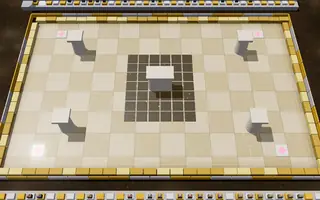
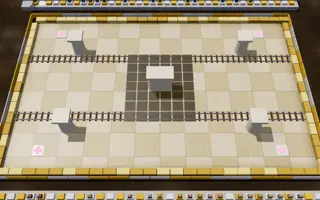
0.46.1: el Alto Mando con las mecánicas nuevas: manos (Agatha), imanes (Karen), arenas movedizas (Bruno), esporas (Dojo Ninja), grietas de lava (Lance) y vagonetas (Campeón)
Antes el Alto Mando solo repetía mecánicas de los gimnasios (oscuridad, terremotos, viento y erupciones, en 3 o 4
salas cada una). La jugada «cerco» de los líderes vale también con las grietas, las manos, las vagonetas y las arenas
movedizas (Bruno la perdía al quedarse sin rocas que caen); Lance cambia «viento» por «acoso». Fotos de Práctica
de las 6 salas rehechas.

diff --git a/public/js/lang/fr.js b/public/js/lang/fr.js
@@ -11,6 +11,10 @@ const CLASSES = {
 
 export default {
   text: {
+    // ---------- Novedades v0.46.1 ----------
+    'Alto Mando renovado': 'Conseil 4 revisité',
+    'El Alto Mando estrena mecánicas: manos que atrapan con Agatha, imanes con Karen, arenas movedizas en vez de rocas con Bruno y esporas en el Dojo Ninja.': 'Le Conseil 4 a de nouvelles mécaniques : des mains qui attrapent chez Agatha, des aimants chez Marion, des sables mouvants au lieu des rochers chez Aldo et des spores au Dojo Ninja.',
+    'Lance cambia las ráfagas por un suelo que se agrieta en lava, y en la Sala del Campeón los terremotos dejan paso a vagonetas: sal de la vía que se ilumina.': 'Peter remplace les rafales par un sol qui se fissure en lave, et dans la Salle du Maître les séismes laissent place aux wagonnets : quitte la voie qui s\'allume.',
     // ---------- Novedades v0.46.0 ----------
     'Más gimnasios con gracia': 'Encore plus d\'arènes vivantes',
     'Más mecánicas: manos que atrapan en la Torre fantasma, imanes que curvan los disparos en el Faro, vagonetas en la Cueva de roca y nubes de esporas en el Invernadero.': 'Plus de mécaniques : des mains qui attrapent dans la Tour spectrale, des aimants qui courbent les tirs au Phare, des wagonnets dans la Grotte et des nuages de spores dans la Serre.',
@@ -1389,21 +1393,21 @@ export default {
     'Cámara Glacial': 'Chambre Glaciale',
     'Alto Mando. Suelo helado, carámbanos que caen del techo y ventiscas que te arrastran.': 'Conseil 4. Sol gelé, stalactites de glace qui tombent du plafond et blizzards qui t\'emportent.',
     'Dojo de Roca': 'Dojo de Roche',
-    'Alto Mando. Terremotos seguidos y rocas que caen del techo.': 'Conseil 4. Séismes à la chaîne et rochers qui tombent du plafond.',
+    'Alto Mando. Terremotos seguidos y arenas movedizas: frenan y, si te quedas quieto en ellas, te hunden.': 'Conseil 4. Séismes à répétition et sables mouvants : ils te ralentissent et, si tu restes immobile dedans, tu t\'enfonces.',
     'Cripta Espectral': 'Crypte Spectrale',
-    'Alto Mando. A oscuras, con teletransportes y charcos tóxicos que se extienden.': 'Conseil 4. Dans le noir, avec des téléporteurs et des flaques toxiques qui s\'étendent.',
+    'Alto Mando. A oscuras, con teletransportes, y salen manos del suelo: si se marca bajo tus pies, apártate o te atrapan.': 'Conseil 4. Dans le noir, avec des téléporteurs, et des mains sortent du sol : si l\'endroit sous tes pieds est marqué, bouge ou elles t\'attrapent.',
     'Guarida del Dragón': 'Repaire du Dragon',
-    'Alto Mando. Un anillo de lava, el aliento de dragón que gira desde el centro, erupciones y ráfagas.': 'Conseil 4. Un anneau de lave, un souffle de dragon qui tourne depuis le centre, des éruptions et des rafales.',
+    'Alto Mando. Un anillo de lava, el aliento de dragón que gira desde el centro, erupciones y un suelo que se agrieta: donde se marca, sale lava un rato.': 'Conseil 4. Un anneau de lave, un souffle de dragon qui tourne depuis le centre, des éruptions et un sol qui se fissure : là où c\'est marqué, la lave jaillit un moment.',
     'Sala del Campeón': 'Salle du Maître',
-    'Campeón. Placas eléctricas en el centro, terremotos y baldosas de curación en las esquinas.': 'Maître. Dalles électriques au centre, séismes et dalles de soin dans les coins.',
+    'Campeón. Placas eléctricas en el centro, vagonetas que cruzan cuando una vía se ilumina y baldosas de curación en las esquinas.': 'Maître. Plaques électriques au centre, wagonnets qui passent quand une voie s\'allume, et dalles de soin dans les coins.',
     'Sala Psíquica': 'Salle Psychique',
     'Alto Mando. Teletransportes y un haz psíquico que gira y aturde.': 'Conseil 4. Des téléporteurs et un faisceau psychique qui tourne et étourdit.',
     'Dojo Ninja': 'Dojo Ninja',
-    'Alto Mando. Penumbra, muros invisibles y charcos tóxicos que se extienden deprisa.': 'Conseil 4. Pénombre, murs invisibles et flaques toxiques qui s\'étendent vite.',
+    'Alto Mando. Penumbra, muros invisibles, charcos tóxicos y nubes de esporas que adormecen a quien las cruza.': 'Conseil 4. Pénombre, murs invisibles, flaques toxiques et nuages de spores qui endorment ceux qui les traversent.',
     'Templo de las Cascadas': 'Temple des Cascades',
     'Alto Mando. Cascadas con mucha corriente y terremotos.': 'Conseil 4. Des cascades au fort courant et des séismes.',
     'Sala de las Sombras': 'Salle des Ombres',
-    'Alto Mando. Oscuridad y emboscadas desde las sombras.': 'Conseil 4. Obscurité et embuscades depuis les ombres.',
+    'Alto Mando. Oscuridad, emboscadas desde las sombras e imanes que curvan los ataques a distancia que pasan cerca.': 'Conseil 4. Obscurité, embuscades depuis les ombres et aimants qui courbent les attaques à distance qui passent près d\'eux.',
     'Cumbre del Dragón': 'Sommet du Dragon',
     'Campeón. Lava, erupciones continuas, vendavales y terremotos.': 'Maître. Lave, éruptions incessantes, bourrasques et séismes.',
     'Su equipo está criado a conciencia: IV perfectos y entrenamiento en todas las estadísticas.': 'Son équipe est élevée avec soin : IV parfaits et entraînement dans toutes les statistiques.',

diff --git a/public/js/lang/ja.js b/public/js/lang/ja.js
@@ -12,6 +12,10 @@ const CLASSES = {
 
 export default {
   text: {
+    // ---------- Novedades v0.46.1 ----------
+    'Alto Mando renovado': '四天王リニューアル',
+    'El Alto Mando estrena mecánicas: manos que atrapan con Agatha, imanes con Karen, arenas movedizas en vez de rocas con Bruno y esporas en el Dojo Ninja.': '四天王に新ギミック：キクコの部屋には捕まえる手、カリンには磁石、シバは岩の代わりに流砂、ニンジャ道場には胞子。',
+    'Lance cambia las ráfagas por un suelo que se agrieta en lava, y en la Sala del Campeón los terremotos dejan paso a vagonetas: sal de la vía que se ilumina.': 'ワタルは突風の代わりに溶岩に割れる地面、チャンピオンの部屋は地震の代わりにトロッコ：光った線路から離れよう。',
     // ---------- Novedades v0.46.0 ----------
     'Más gimnasios con gracia': '個性的なジムがさらに',
     'Más mecánicas: manos que atrapan en la Torre fantasma, imanes que curvan los disparos en el Faro, vagonetas en la Cueva de roca y nubes de esporas en el Invernadero.': 'ギミック追加：ゴーストの塔で捕まえる手、灯台で攻撃を曲げる磁石、岩の洞窟のトロッコ、温室の胞子の雲。',
@@ -1398,21 +1402,21 @@ export default {
     'Cámara Glacial': '氷の 間',
     'Alto Mando. Suelo helado, carámbanos que caen del techo y ventiscas que te arrastran.': '四天王。凍った 床、天井から 落ちる つらら、押し流す 吹雪。',
     'Dojo de Roca': '岩の 道場',
-    'Alto Mando. Terremotos seguidos y rocas que caen del techo.': '四天王。つづけざまの じしんと、天井から 落ちる 岩。',
+    'Alto Mando. Terremotos seguidos y arenas movedizas: frenan y, si te quedas quieto en ellas, te hunden.': '四天王。立て続けの地震と流砂：動きが遅くなり、中で止まっていると沈む。',
     'Cripta Espectral': 'ゴーストの 墓所',
-    'Alto Mando. A oscuras, con teletransportes y charcos tóxicos que se extienden.': '四天王。くらやみの中、ワープパネルと 広がる 毒の 水たまり。',
+    'Alto Mando. A oscuras, con teletransportes, y salen manos del suelo: si se marca bajo tus pies, apártate o te atrapan.': '四天王。くらやみの中、ワープパネルがあり、地面から手が出てくる：足元にマークが出たら動こう、さもないと捕まる。',
     'Guarida del Dragón': 'ドラゴンの すみか',
-    'Alto Mando. Un anillo de lava, el aliento de dragón que gira desde el centro, erupciones y ráfagas.': '四天王。溶岩の 輪、中央から 回る ドラゴンの 息、噴火と 突風。',
+    'Alto Mando. Un anillo de lava, el aliento de dragón que gira desde el centro, erupciones y un suelo que se agrieta: donde se marca, sale lava un rato.': '四天王。溶岩の輪、中央から回るドラゴンの息、噴火、そしてひび割れる地面：マークの場所からしばらく溶岩が噴き出す。',
     'Sala del Campeón': 'チャンピオンの 間',
-    'Campeón. Placas eléctricas en el centro, terremotos y baldosas de curación en las esquinas.': 'チャンピオン。中央に 電気パネル、じしん、四すみに 回復パネル。',
+    'Campeón. Placas eléctricas en el centro, vagonetas que cruzan cuando una vía se ilumina y baldosas de curación en las esquinas.': 'チャンピオン。中央に電気パネル、線路が光ると通るトロッコ、四隅に回復パネル。',
     'Sala Psíquica': 'エスパーの 間',
     'Alto Mando. Teletransportes y un haz psíquico que gira y aturde.': '四天王。ワープパネルと、回って スタンさせる サイコビーム。',
     'Dojo Ninja': '忍者 道場',
-    'Alto Mando. Penumbra, muros invisibles y charcos tóxicos que se extienden deprisa.': '四天王。うす暗がり、見えない壁、すぐ 広がる 毒の 水たまり。',
+    'Alto Mando. Penumbra, muros invisibles, charcos tóxicos y nubes de esporas que adormecen a quien las cruza.': '四天王。うす暗がり、見えない壁、毒の水たまり、そして通ると眠くなる胞子の雲。',
     'Templo de las Cascadas': '滝の 神殿',
     'Alto Mando. Cascadas con mucha corriente y terremotos.': '四天王。流れの 強い 滝と じしん。',
     'Sala de las Sombras': '影の 間',
-    'Alto Mando. Oscuridad y emboscadas desde las sombras.': '四天王。くらやみと、影からの 不意打ち。',
+    'Alto Mando. Oscuridad, emboscadas desde las sombras e imanes que curvan los ataques a distancia que pasan cerca.': '四天王。くらやみと 影からの 奇襲、そして近くを通る遠距離攻撃を曲げる磁石。',
     'Cumbre del Dragón': 'ドラゴンの 頂',
     'Campeón. Lava, erupciones continuas, vendavales y terremotos.': 'チャンピオン。溶岩、止まらない 噴火、暴風、じしん。',
     'Su equipo está criado a conciencia: IV perfectos y entrenamiento en todas las estadísticas.': '手持ちは しっかり 育てられている：個体値 最高、全能力に 努力値。',

diff --git a/public/js/lang/it.js b/public/js/lang/it.js
@@ -12,6 +12,10 @@ const CLASSES = {
 
 export default {
   text: {
+    // ---------- Novedades v0.46.1 ----------
+    'Alto Mando renovado': 'Superquattro rinnovati',
+    'El Alto Mando estrena mecánicas: manos que atrapan con Agatha, imanes con Karen, arenas movedizas en vez de rocas con Bruno y esporas en el Dojo Ninja.': 'I Superquattro hanno nuove meccaniche: mani che afferrano con Agatha, magneti con Karen, sabbie mobili al posto delle rocce con Bruno e spore nel Dojo Ninja.',
+    'Lance cambia las ráfagas por un suelo que se agrieta en lava, y en la Sala del Campeón los terremotos dejan paso a vagonetas: sal de la vía que se ilumina.': 'Lance sostituisce le raffiche con un suolo che si crepa in lava, e nella Sala del Campione i terremoti lasciano il posto ai carrelli: esci dal binario che si illumina.',
     // ---------- Novedades v0.46.0 ----------
     'Más gimnasios con gracia': 'Altre palestre con carattere',
     'Más mecánicas: manos que atrapan en la Torre fantasma, imanes que curvan los disparos en el Faro, vagonetas en la Cueva de roca y nubes de esporas en el Invernadero.': 'Altre meccaniche: mani che afferrano nella Torre spettrale, magneti che curvano i colpi al Faro, carrelli nella Grotta di roccia e nuvole di spore nella Serra.',
@@ -1398,21 +1402,21 @@ export default {
     'Cámara Glacial': 'Camera Glaciale',
     'Alto Mando. Suelo helado, carámbanos que caen del techo y ventiscas que te arrastran.': 'Superquattro. Pavimento ghiacciato, ghiaccioli che cadono dal soffitto e bufere che ti trascinano.',
     'Dojo de Roca': 'Dojo di Roccia',
-    'Alto Mando. Terremotos seguidos y rocas que caen del techo.': 'Superquattro. Terremoti a ripetizione e rocce che cadono dal soffitto.',
+    'Alto Mando. Terremotos seguidos y arenas movedizas: frenan y, si te quedas quieto en ellas, te hunden.': 'Superquattro. Terremoti a raffica e sabbie mobili: rallentano e, se resti fermo dentro, sprofondi.',
     'Cripta Espectral': 'Cripta Spettrale',
-    'Alto Mando. A oscuras, con teletransportes y charcos tóxicos que se extienden.': 'Superquattro. Al buio, con teletrasporti e pozze tossiche che si allargano.',
+    'Alto Mando. A oscuras, con teletransportes, y salen manos del suelo: si se marca bajo tus pies, apártate o te atrapan.': 'Superquattro. Al buio, con teletrasporti, e dal terreno escono delle mani: se il punto sotto i tuoi piedi viene segnato, spostati o ti afferrano.',
     'Guarida del Dragón': 'Rifugio del Drago',
-    'Alto Mando. Un anillo de lava, el aliento de dragón que gira desde el centro, erupciones y ráfagas.': 'Superquattro. Un anello di lava, il soffio del drago che gira dal centro, eruzioni e raffiche.',
+    'Alto Mando. Un anillo de lava, el aliento de dragón que gira desde el centro, erupciones y un suelo que se agrieta: donde se marca, sale lava un rato.': 'Superquattro. Un anello di lava, il soffio del drago che ruota dal centro, eruzioni e un suolo che si crepa: dove viene segnato, esce lava per un po\'.',
     'Sala del Campeón': 'Sala del Campione',
-    'Campeón. Placas eléctricas en el centro, terremotos y baldosas de curación en las esquinas.': 'Campione. Piastre elettriche al centro, terremoti e piastrelle curative negli angoli.',
+    'Campeón. Placas eléctricas en el centro, vagonetas que cruzan cuando una vía se ilumina y baldosas de curación en las esquinas.': 'Campione. Piastre elettriche al centro, carrelli che passano quando un binario si illumina e caselle curative negli angoli.',
     'Sala Psíquica': 'Sala Psichica',
     'Alto Mando. Teletransportes y un haz psíquico que gira y aturde.': 'Superquattro. Teletrasporti e un fascio psichico che gira e stordisce.',
     'Dojo Ninja': 'Dojo Ninja',
-    'Alto Mando. Penumbra, muros invisibles y charcos tóxicos que se extienden deprisa.': 'Superquattro. Penombra, muri invisibili e pozze tossiche che si allargano in fretta.',
+    'Alto Mando. Penumbra, muros invisibles, charcos tóxicos y nubes de esporas que adormecen a quien las cruza.': 'Superquattro. Penombra, muri invisibili, pozze tossiche e nuvole di spore che intorpidiscono chi le attraversa.',
     'Templo de las Cascadas': 'Tempio delle Cascate',
     'Alto Mando. Cascadas con mucha corriente y terremotos.': 'Superquattro. Cascate con forte corrente e terremoti.',
     'Sala de las Sombras': 'Sala delle Ombre',
-    'Alto Mando. Oscuridad y emboscadas desde las sombras.': 'Superquattro. Oscurità e imboscate dalle ombre.',
+    'Alto Mando. Oscuridad, emboscadas desde las sombras e imanes que curvan los ataques a distancia que pasan cerca.': 'Superquattro. Oscurità, imboscate dalle ombre e magneti che curvano gli attacchi a distanza che passano vicino.',
     'Cumbre del Dragón': 'Vetta del Drago',
     'Campeón. Lava, erupciones continuas, vendavales y terremotos.': 'Campione. Lava, eruzioni continue, bufere e terremoti.',
     'Su equipo está criado a conciencia: IV perfectos y entrenamiento en todas las estadísticas.': 'La sua squadra è allevata con cura: VI perfetti e allenamento in tutte le statistiche.',

diff --git a/public/js/lang/de.js b/public/js/lang/de.js
@@ -11,6 +11,10 @@ const CLASSES = {
 
 export default {
   text: {
+    // ---------- Novedades v0.46.1 ----------
+    'Alto Mando renovado': 'Top Vier überarbeitet',
+    'El Alto Mando estrena mecánicas: manos que atrapan con Agatha, imanes con Karen, arenas movedizas en vez de rocas con Bruno y esporas en el Dojo Ninja.': 'Die Top Vier haben neue Mechaniken: packende Hände bei Agathe, Magnete bei Melanie, Treibsand statt Felsen bei Bruno und Sporen im Ninja-Dojo.',
+    'Lance cambia las ráfagas por un suelo que se agrieta en lava, y en la Sala del Campeón los terremotos dejan paso a vagonetas: sal de la vía que se ilumina.': 'Siegfried tauscht die Böen gegen einen Boden, der zu Lava aufreißt, und im Saal des Champs weichen die Erdbeben Loren: Runter vom Gleis, das aufleuchtet.',
     // ---------- Novedades v0.46.0 ----------
     'Más gimnasios con gracia': 'Noch mehr Arenen mit Pfiff',
     'Más mecánicas: manos que atrapan en la Torre fantasma, imanes que curvan los disparos en el Faro, vagonetas en la Cueva de roca y nubes de esporas en el Invernadero.': 'Mehr Mechaniken: greifende Hände im Geisterturm, Magnete, die Schüsse am Leuchtturm ablenken, Loren in der Felshöhle und Sporenwolken im Gewächshaus.',
@@ -1397,21 +1401,21 @@ export default {
     'Cámara Glacial': 'Gletscherkammer',
     'Alto Mando. Suelo helado, carámbanos que caen del techo y ventiscas que te arrastran.': 'Top Vier. Vereister Boden, Eiszapfen, die von der Decke fallen, und Schneestürme, die dich mitreißen.',
     'Dojo de Roca': 'Felsen-Dojo',
-    'Alto Mando. Terremotos seguidos y rocas que caen del techo.': 'Top Vier. Erdbeben am laufenden Band und Felsen, die von der Decke fallen.',
+    'Alto Mando. Terremotos seguidos y arenas movedizas: frenan y, si te quedas quieto en ellas, te hunden.': 'Top Vier. Erdbeben am laufenden Band und Treibsand: Er bremst dich, und wenn du darin stehen bleibst, versinkst du.',
     'Cripta Espectral': 'Geistergruft',
-    'Alto Mando. A oscuras, con teletransportes y charcos tóxicos que se extienden.': 'Top Vier. Im Dunkeln, mit Teleportern und sich ausbreitenden Giftpfützen.',
+    'Alto Mando. A oscuras, con teletransportes, y salen manos del suelo: si se marca bajo tus pies, apártate o te atrapan.': 'Top Vier. Im Dunkeln, mit Teleportern, und aus dem Boden kommen Hände: Wird die Stelle unter dir markiert, geh weg, sonst packen sie dich.',
     'Guarida del Dragón': 'Drachenhort',
-    'Alto Mando. Un anillo de lava, el aliento de dragón que gira desde el centro, erupciones y ráfagas.': 'Top Vier. Ein Lavaring, Drachenatem, der sich von der Mitte aus dreht, Ausbrüche und Windstöße.',
+    'Alto Mando. Un anillo de lava, el aliento de dragón que gira desde el centro, erupciones y un suelo que se agrieta: donde se marca, sale lava un rato.': 'Top Vier. Ein Lavaring, Drachenatem, der sich von der Mitte aus dreht, Ausbrüche und ein Boden, der aufreißt: Wo er markiert wird, tritt eine Weile Lava aus.',
     'Sala del Campeón': 'Halle des Champs',
-    'Campeón. Placas eléctricas en el centro, terremotos y baldosas de curación en las esquinas.': 'Champ. Elektroplatten in der Mitte, Erdbeben und Heilplatten in den Ecken.',
+    'Campeón. Placas eléctricas en el centro, vagonetas que cruzan cuando una vía se ilumina y baldosas de curación en las esquinas.': 'Champion. Elektroplatten in der Mitte, Loren, die fahren, wenn ein Gleis aufleuchtet, und Heilfelder in den Ecken.',
     'Sala Psíquica': 'Psycho-Halle',
     'Alto Mando. Teletransportes y un haz psíquico que gira y aturde.': 'Top Vier. Teleporter und ein kreisender Psycho-Strahl, der betäubt.',
     'Dojo Ninja': 'Ninja-Dojo',
-    'Alto Mando. Penumbra, muros invisibles y charcos tóxicos que se extienden deprisa.': 'Top Vier. Halbdunkel, unsichtbare Wände und Giftpfützen, die sich schnell ausbreiten.',
+    'Alto Mando. Penumbra, muros invisibles, charcos tóxicos y nubes de esporas que adormecen a quien las cruza.': 'Top Vier. Halbdunkel, unsichtbare Wände, Giftpfützen und Sporenwolken, die jeden schläfrig machen, der sie durchquert.',
     'Templo de las Cascadas': 'Wasserfalltempel',
     'Alto Mando. Cascadas con mucha corriente y terremotos.': 'Top Vier. Wasserfälle mit starker Strömung und Erdbeben.',
     'Sala de las Sombras': 'Halle der Schatten',
-    'Alto Mando. Oscuridad y emboscadas desde las sombras.': 'Top Vier. Dunkelheit und Hinterhalte aus den Schatten.',
+    'Alto Mando. Oscuridad, emboscadas desde las sombras e imanes que curvan los ataques a distancia que pasan cerca.': 'Top Vier. Dunkelheit, Hinterhalte aus den Schatten und Magnete, die Fernangriffe in ihrer Nähe ablenken.',
     'Cumbre del Dragón': 'Drachengipfel',
     'Campeón. Lava, erupciones continuas, vendavales y terremotos.': 'Champ. Lava, ständige Ausbrüche, Stürme und Erdbeben.',
     'Su equipo está criado a conciencia: IV perfectos y entrenamiento en todas las estadísticas.': 'Sein Team ist sorgfältig gezüchtet: perfekte DVs und Training in allen Werten.',

diff --git a/public/js/lang/ko.js b/public/js/lang/ko.js
@@ -12,6 +12,10 @@ const CLASSES = {
 
 export default {
   text: {
+    // ---------- Novedades v0.46.1 ----------
+    'Alto Mando renovado': '사천왕 리뉴얼',
+    'El Alto Mando estrena mecánicas: manos que atrapan con Agatha, imanes con Karen, arenas movedizas en vez de rocas con Bruno y esporas en el Dojo Ninja.': '사천왕에 새 기믹: 국화에게는 붙잡는 손, 카렌에게는 자석, 시바는 바위 대신 모래늪, 닌자 도장에는 포자.',
+    'Lance cambia las ráfagas por un suelo que se agrieta en lava, y en la Sala del Campeón los terremotos dejan paso a vagonetas: sal de la vía que se ilumina.': '목호는 돌풍 대신 용암으로 갈라지는 바닥, 챔피언의 방은 지진 대신 광차: 빛나는 선로에서 벗어나.',
     // ---------- Novedades v0.46.0 ----------
     'Más gimnasios con gracia': '더 많은 개성 있는 체육관',
     'Más mecánicas: manos que atrapan en la Torre fantasma, imanes que curvan los disparos en el Faro, vagonetas en la Cueva de roca y nubes de esporas en el Invernadero.': '기믹 추가: 고스트 탑의 붙잡는 손, 등대의 공격을 휘게 하는 자석, 바위 동굴의 광차, 온실의 포자 구름.',
@@ -1398,21 +1402,21 @@ export default {
     'Cámara Glacial': '얼음의 방',
     'Alto Mando. Suelo helado, carámbanos que caen del techo y ventiscas que te arrastran.': '사천왕. 얼어붙은 바닥, 천장에서 떨어지는 고드름, 밀어내는 눈보라.',
     'Dojo de Roca': '바위 도장',
-    'Alto Mando. Terremotos seguidos y rocas que caen del techo.': '사천왕. 연이은 지진과 천장에서 떨어지는 바위.',
+    'Alto Mando. Terremotos seguidos y arenas movedizas: frenan y, si te quedas quieto en ellas, te hunden.': '사천왕. 연이은 지진과 모래늪: 느려지고, 안에서 가만히 있으면 가라앉는다.',
     'Cripta Espectral': '유령의 묘실',
-    'Alto Mando. A oscuras, con teletransportes y charcos tóxicos que se extienden.': '사천왕. 어둠 속에서 순간이동 타일과 번지는 독 웅덩이.',
+    'Alto Mando. A oscuras, con teletransportes, y salen manos del suelo: si se marca bajo tus pies, apártate o te atrapan.': '사천왕. 어둠 속에 순간이동 타일이 있고, 땅에서 손이 나온다: 발밑에 표시가 뜨면 피하지 않으면 붙잡힌다.',
     'Guarida del Dragón': '드래곤의 소굴',
-    'Alto Mando. Un anillo de lava, el aliento de dragón que gira desde el centro, erupciones y ráfagas.': '사천왕. 용암 고리, 중앙에서 도는 드래곤의 숨결, 분화와 돌풍.',
+    'Alto Mando. Un anillo de lava, el aliento de dragón que gira desde el centro, erupciones y un suelo que se agrieta: donde se marca, sale lava un rato.': '사천왕. 용암 고리, 중앙에서 회전하는 드래곤의 숨결, 분화, 그리고 갈라지는 바닥: 표시된 곳에서 잠시 용암이 솟는다.',
     'Sala del Campeón': '챔피언의 방',
-    'Campeón. Placas eléctricas en el centro, terremotos y baldosas de curación en las esquinas.': '챔피언. 가운데 전기 패널, 지진, 네 모서리의 회복 타일.',
+    'Campeón. Placas eléctricas en el centro, vagonetas que cruzan cuando una vía se ilumina y baldosas de curación en las esquinas.': '챔피언. 중앙의 전기 발판, 선로가 빛나면 지나가는 광차, 그리고 구석의 회복 타일.',
     'Sala Psíquica': '에스퍼의 방',
     'Alto Mando. Teletransportes y un haz psíquico que gira y aturde.': '사천왕. 순간이동 타일과 빙글빙글 돌며 기절시키는 사이코 빔.',
     'Dojo Ninja': '닌자 도장',
-    'Alto Mando. Penumbra, muros invisibles y charcos tóxicos que se extienden deprisa.': '사천왕. 어스름, 보이지 않는 벽, 빠르게 번지는 독 웅덩이.',
+    'Alto Mando. Penumbra, muros invisibles, charcos tóxicos y nubes de esporas que adormecen a quien las cruza.': '사천왕. 어스름, 보이지 않는 벽, 독 웅덩이, 그리고 지나가면 졸리게 하는 포자 구름.',
     'Templo de las Cascadas': '폭포의 신전',
     'Alto Mando. Cascadas con mucha corriente y terremotos.': '사천왕. 물살이 센 폭포와 지진.',
     'Sala de las Sombras': '그림자의 방',
-    'Alto Mando. Oscuridad y emboscadas desde las sombras.': '사천왕. 어둠과 그림자 속의 기습.',
+    'Alto Mando. Oscuridad, emboscadas desde las sombras e imanes que curvan los ataques a distancia que pasan cerca.': '사천왕. 어둠과 그림자 속 기습, 그리고 근처를 지나는 원거리 공격을 휘게 하는 자석.',
     'Cumbre del Dragón': '드래곤의 정상',
     'Campeón. Lava, erupciones continuas, vendavales y terremotos.': '챔피언. 용암, 끊이지 않는 분화, 폭풍, 지진.',
     'Su equipo está criado a conciencia: IV perfectos y entrenamiento en todas las estadísticas.': '꼼꼼하게 키운 포켓몬: 개체값 최고, 모든 능력치에 노력치.',

diff --git a/public/js/lang/en.js b/public/js/lang/en.js
@@ -11,6 +11,10 @@ const CLASSES = {
 
 export default {
   text: {
+    // ---------- Novedades v0.46.1 ----------
+    'Alto Mando renovado': 'Elite Four revamped',
+    'El Alto Mando estrena mecánicas: manos que atrapan con Agatha, imanes con Karen, arenas movedizas en vez de rocas con Bruno y esporas en el Dojo Ninja.': 'The Elite Four get new mechanics: grabbing hands with Agatha, magnets with Karen, quicksand instead of rocks with Bruno, and spores in the Ninja Dojo.',
+    'Lance cambia las ráfagas por un suelo que se agrieta en lava, y en la Sala del Campeón los terremotos dejan paso a vagonetas: sal de la vía que se ilumina.': 'Lance swaps the gusts for a floor that cracks into lava, and in the Champion\'s Room the earthquakes make way for mine carts: get off the track that lights up.',
     // ---------- Novedades v0.46.0 ----------
     'Más gimnasios con gracia': 'More gyms with flair',
     'Más mecánicas: manos que atrapan en la Torre fantasma, imanes que curvan los disparos en el Faro, vagonetas en la Cueva de roca y nubes de esporas en el Invernadero.': 'More mechanics: grabbing hands in the ghost Tower, magnets that bend shots at the Lighthouse, mine carts in the rock Cave and spore clouds in the Greenhouse.',
@@ -1233,21 +1237,21 @@ export default {
     'Cámara Glacial': 'Glacial Chamber',
     'Alto Mando. Suelo helado, carámbanos que caen del techo y ventiscas que te arrastran.': 'Elite Four. Icy floor, icicles falling from the ceiling and blizzards that drag you along.',
     'Dojo de Roca': 'Rock Dojo',
-    'Alto Mando. Terremotos seguidos y rocas que caen del techo.': 'Elite Four. Back-to-back earthquakes and rocks falling from the ceiling.',
+    'Alto Mando. Terremotos seguidos y arenas movedizas: frenan y, si te quedas quieto en ellas, te hunden.': 'Elite Four. Back-to-back earthquakes and quicksand: it slows you down, and if you stand still in it, you sink.',
     'Cripta Espectral': 'Spectral Crypt',
-    'Alto Mando. A oscuras, con teletransportes y charcos tóxicos que se extienden.': 'Elite Four. In the dark, with teleporters and spreading toxic puddles.',
+    'Alto Mando. A oscuras, con teletransportes, y salen manos del suelo: si se marca bajo tus pies, apártate o te atrapan.': 'Elite Four. In the dark, with teleporters, and hands come out of the ground: if the spot under your feet gets marked, move or they grab you.',
     'Guarida del Dragón': 'Dragon\'s Lair',
-    'Alto Mando. Un anillo de lava, el aliento de dragón que gira desde el centro, erupciones y ráfagas.': 'Elite Four. A ring of lava, dragon breath sweeping from the center, eruptions and gusts.',
+    'Alto Mando. Un anillo de lava, el aliento de dragón que gira desde el centro, erupciones y un suelo que se agrieta: donde se marca, sale lava un rato.': 'Elite Four. A ring of lava, dragon breath spinning from the center, eruptions and a floor that cracks: where it gets marked, lava bursts out for a while.',
     'Sala del Campeón': 'Champion\'s Hall',
-    'Campeón. Placas eléctricas en el centro, terremotos y baldosas de curación en las esquinas.': 'Champion. Electric plates in the middle, earthquakes and healing tiles in the corners.',
+    'Campeón. Placas eléctricas en el centro, vagonetas que cruzan cuando una vía se ilumina y baldosas de curación en las esquinas.': 'Champion. Electric plates in the center, mine carts that cross when a track lights up, and healing tiles in the corners.',
     'Sala Psíquica': 'Psychic Hall',
     'Alto Mando. Teletransportes y un haz psíquico que gira y aturde.': 'Elite Four. Teleporters and a spinning psychic beam that stuns.',
     'Dojo Ninja': 'Ninja Dojo',
-    'Alto Mando. Penumbra, muros invisibles y charcos tóxicos que se extienden deprisa.': 'Elite Four. Gloom, invisible walls and toxic puddles that spread fast.',
+    'Alto Mando. Penumbra, muros invisibles, charcos tóxicos y nubes de esporas que adormecen a quien las cruza.': 'Elite Four. Gloom, invisible walls, toxic puddles and spore clouds that make anyone who crosses them drowsy.',
     'Templo de las Cascadas': 'Waterfall Temple',
     'Alto Mando. Cascadas con mucha corriente y terremotos.': 'Elite Four. Waterfalls with a strong current and earthquakes.',
     'Sala de las Sombras': 'Hall of Shadows',
-    'Alto Mando. Oscuridad y emboscadas desde las sombras.': 'Elite Four. Darkness and ambushes from the shadows.',
+    'Alto Mando. Oscuridad, emboscadas desde las sombras e imanes que curvan los ataques a distancia que pasan cerca.': 'Elite Four. Darkness, ambushes from the shadows, and magnets that bend ranged attacks passing close by.',
     'Cumbre del Dragón': 'Dragon\'s Summit',
     'Campeón. Lava, erupciones continuas, vendavales y terremotos.': 'Champion. Lava, nonstop eruptions, gales and earthquakes.',
     'Rutas, práctica, clasificatoria y Torre': 'Routes, practice, ranked and Tower',

diff --git a/public/js/lang/zh.js b/public/js/lang/zh.js
@@ -11,6 +11,10 @@ const CLASSES = {
 
 export default {
   text: {
+    // ---------- Novedades v0.46.1 ----------
+    'Alto Mando renovado': '四天王焕新',
+    'El Alto Mando estrena mecánicas: manos que atrapan con Agatha, imanes con Karen, arenas movedizas en vez de rocas con Bruno y esporas en el Dojo Ninja.': '四天王有了新机关：菊子那里有抓人的手，梨花那里有磁铁，希巴用流沙代替落石，忍者道场有孢子。',
+    'Lance cambia las ráfagas por un suelo que se agrieta en lava, y en la Sala del Campeón los terremotos dejan paso a vagonetas: sal de la vía que se ilumina.': '阿渡把狂风换成了会裂出熔岩的地面，冠军之间的地震换成了矿车：快离开亮起的轨道。',
     // ---------- Novedades v0.46.0 ----------
     'Más gimnasios con gracia': '更多有特色的道馆',
     'Más mecánicas: manos que atrapan en la Torre fantasma, imanes que curvan los disparos en el Faro, vagonetas en la Cueva de roca y nubes de esporas en el Invernadero.': '更多机制：幽灵塔里会抓人的手、灯塔里让攻击弯曲的磁铁、岩石洞窟里的矿车，以及温室里的孢子云。',
@@ -1481,21 +1485,21 @@ export default {
     'Cámara Glacial': '冰川之间',
     'Alto Mando. Suelo helado, carámbanos que caen del techo y ventiscas que te arrastran.': '四天王。结冰的地面、从天花板落下的冰柱，以及会把你吹走的暴风雪。',
     'Dojo de Roca': '岩石道场',
-    'Alto Mando. Terremotos seguidos y rocas que caen del techo.': '四天王。接连不断的地震和从天花板落下的岩石。',
+    'Alto Mando. Terremotos seguidos y arenas movedizas: frenan y, si te quedas quieto en ellas, te hunden.': '四天王。接连不断的地震和流沙：会减速，站着不动就会陷下去。',
     'Cripta Espectral': '幽灵墓穴',
-    'Alto Mando. A oscuras, con teletransportes y charcos tóxicos que se extienden.': '四天王。一片黑暗，有传送点和不断扩散的毒水洼。',
+    'Alto Mando. A oscuras, con teletransportes, y salen manos del suelo: si se marca bajo tus pies, apártate o te atrapan.': '四天王。一片黑暗，有传送点，地面还会伸出手来：脚下出现标记时快躲开，不然会被抓住。',
     'Guarida del Dragón': '龙之巢穴',
-    'Alto Mando. Un anillo de lava, el aliento de dragón que gira desde el centro, erupciones y ráfagas.': '四天王。熔岩环、从中心旋转的龙之吐息、喷发和阵风。',
+    'Alto Mando. Un anillo de lava, el aliento de dragón que gira desde el centro, erupciones y un suelo que se agrieta: donde se marca, sale lava un rato.': '四天王。熔岩环、从中心旋转的龙之吐息、喷发，还有会开裂的地面：出现标记的地方会喷出一阵熔岩。',
     'Sala del Campeón': '冠军大厅',
-    'Campeón. Placas eléctricas en el centro, terremotos y baldosas de curación en las esquinas.': '冠军。中央的电击地板、地震以及角落里的回复地砖。',
+    'Campeón. Placas eléctricas en el centro, vagonetas que cruzan cuando una vía se ilumina y baldosas de curación en las esquinas.': '冠军。中央有电击板，轨道亮起时会有矿车驶过，四角有回复地砖。',
     'Sala Psíquica': '超能力大厅',
     'Alto Mando. Teletransportes y un haz psíquico que gira y aturde.': '四天王。传送点和旋转的超能光束，被击中会眩晕。',
     'Dojo Ninja': '忍者道场',
-    'Alto Mando. Penumbra, muros invisibles y charcos tóxicos que se extienden deprisa.': '四天王。昏暗中有看不见的墙壁和迅速扩散的毒水洼。',
+    'Alto Mando. Penumbra, muros invisibles, charcos tóxicos y nubes de esporas que adormecen a quien las cruza.': '四天王。昏暗、隐形墙、毒水洼，还有穿过就会犯困的孢子云。',
     'Templo de las Cascadas': '瀑布神殿',
     'Alto Mando. Cascadas con mucha corriente y terremotos.': '四天王。水流湍急的瀑布和地震。',
     'Sala de las Sombras': '暗影大厅',
-    'Alto Mando. Oscuridad y emboscadas desde las sombras.': '四天王。黑暗之中，有来自阴影的伏击。',
+    'Alto Mando. Oscuridad, emboscadas desde las sombras e imanes que curvan los ataques a distancia que pasan cerca.': '四天王。黑暗、来自阴影的伏击，还有会让附近经过的远程攻击拐弯的磁铁。',
     'Cumbre del Dragón': '龙之巅',
     'Campeón. Lava, erupciones continuas, vendavales y terremotos.': '冠军。熔岩、不断的喷发、狂风和地震。',
     'Rutas, práctica, clasificatoria y Torre': '道路、练习、排位赛和对战塔',

diff --git a/public/data.js b/public/data.js
@@ -903,7 +903,7 @@
         '.iiiiiiiiiiiiiiiiiiiiii.',
         '..iiiiiiiiiiiiiiiiiiii..',
       ] },
-    'e-bruno': { name: 'Dojo de Roca', desc: 'Alto Mando. Terremotos seguidos y rocas que caen del techo.', mech: { quake: { every: 6.5, warn: 0.9, speed: 380, dmg: 0.1, slow: 1.4 }, rockfall: { every: 3.2, warn: 1, r: 48, dmg: 0.08, ttl: 6 } },
+    'e-bruno': { name: 'Dojo de Roca', desc: 'Alto Mando. Terremotos seguidos y arenas movedizas: frenan y, si te quedas quieto en ellas, te hunden.', mech: { quake: { every: 6.5, warn: 0.9, speed: 380, dmg: 0.1, slow: 1.4 }, quicksand: { r: 55, hold: 1.1, dmg: 0.06, slow: 1 } },
       rows: [
         '........................',
         '..o..................o..',
@@ -921,7 +921,7 @@
         '..o..................o..',
         '........................',
       ] },
-    'e-agatha': { name: 'Cripta Espectral', desc: 'Alto Mando. A oscuras, con teletransportes y charcos tóxicos que se extienden.', mech: { dark: 290, warp: { cd: 1.5 }, toxic: { every: 6, ttl: 6 } },
+    'e-agatha': { name: 'Cripta Espectral', desc: 'Alto Mando. A oscuras, con teletransportes, y salen manos del suelo: si se marca bajo tus pies, apártate o te atrapan.', mech: { dark: 290, warp: { cd: 1.5 }, hands: { every: 5, warn: 0.9, r: 36, dmg: 0.05, stun: 0.5 } },
       rows: [
         '........................',
         '...o................o...',
@@ -939,7 +939,7 @@
         '...o................o...',
         '........................',
       ] },
-    'e-lance': { name: 'Guarida del Dragón', desc: 'Alto Mando. Un anillo de lava, el aliento de dragón que gira desde el centro, erupciones y ráfagas.', mech: { beam: { speed: 0.7, len: 560, width: 16, dmg: 0.08, ty: 'dragon' }, eruption: { every: 6, warn: 1.1, r: 70, dmg: 0.08 }, wind: { every: 9, warn: 1.1, dur: 2.2, force: 90 } },
+    'e-lance': { name: 'Guarida del Dragón', desc: 'Alto Mando. Un anillo de lava, el aliento de dragón que gira desde el centro, erupciones y un suelo que se agrieta: donde se marca, sale lava un rato.', mech: { beam: { speed: 0.7, len: 560, width: 16, dmg: 0.08, ty: 'dragon' }, eruption: { every: 6, warn: 1.1, r: 70, dmg: 0.08 }, fissure: { every: 7, warn: 1.1, r: 60, dmg: 0.06, ttl: 6 } },
       rows: [
         'LLL..................LLL',
         'LL....................LL',
@@ -957,7 +957,7 @@
         'LL....................LL',
         'LLL..................LLL',
       ] },
-    'e-azul': { name: 'Sala del Campeón', desc: 'Campeón. Placas eléctricas en el centro, terremotos y baldosas de curación en las esquinas.', mech: { shock: { every: 2.8, warn: 0.9, dmg: 0.08, stun: 0.6 }, quake: { every: 9, warn: 1, speed: 360, dmg: 0.09, slow: 1.2 }, heal: { rate: 0.04, drain: 0.3, cd: 15 } },
+    'e-azul': { name: 'Sala del Campeón', desc: 'Campeón. Placas eléctricas en el centro, vagonetas que cruzan cuando una vía se ilumina y baldosas de curación en las esquinas.', mech: { shock: { every: 2.8, warn: 0.9, dmg: 0.08, stun: 0.6 }, carts: { every: 9, warn: 1.3, speed: 520, dmg: 0.08, knock: 140, rows: [4, 10] }, heal: { rate: 0.04, drain: 0.3, cd: 15 } },
       rows: [
         '........................',
         '..H..................H..',
@@ -993,7 +993,7 @@
         '....b..............a....',
         '........................',
       ] },
-    'e-kogaj': { name: 'Dojo Ninja', desc: 'Alto Mando. Penumbra, muros invisibles y charcos tóxicos que se extienden deprisa.', mech: { dark: 340, toxic: { every: 3.5, ttl: 9 } },
+    'e-kogaj': { name: 'Dojo Ninja', desc: 'Alto Mando. Penumbra, muros invisibles, charcos tóxicos y nubes de esporas que adormecen a quien las cruza.', mech: { dark: 340, spores: { n: 4, r: 70, slow: 0.35 } },
       rows: [
         '........................',
         '..pp....x......x....pp..',
@@ -1029,7 +1029,7 @@
         '......vv........^^......',
         '......vv........^^......',
       ] },
-    'e-karen': { name: 'Sala de las Sombras', desc: 'Alto Mando. Oscuridad y emboscadas desde las sombras.', mech: { dark: 290, rockfall: { every: 3, warn: 0.9, r: 46, dmg: 0.08, ttl: 5, ty: 'siniestro' } },
+    'e-karen': { name: 'Sala de las Sombras', desc: 'Alto Mando. Oscuridad, emboscadas desde las sombras e imanes que curvan los ataques a distancia que pasan cerca.', mech: { dark: 290, rockfall: { every: 3, warn: 0.9, r: 46, dmg: 0.08, ttl: 5, ty: 'siniestro' }, magnets: { force: 1800, R: 210 } },
       rows: [
         '........................',
         '...##..............##...',

diff --git a/server/tactics.js b/server/tactics.js
@@ -27,7 +27,7 @@ const LEADER_PLAYS = {
   brock: ['trinchera', 'cerco'], misty: ['cerco', 'acoso'], surge: ['cerco', 'acoso'], erika: ['emboscada', 'acoso'],
   koga: ['refugio', 'emboscada'], sabrina: ['teletransporte', 'trinchera'], blaine: ['refugio', 'cerco'], giovanni: ['trinchera', 'acoso'],
   lorelei: ['mojado', 'cerco', 'viento'], bruno: ['trinchera', 'cerco', 'acoso'], agatha: ['teletransporte', 'refugio', 'emboscada'],
-  lance: ['cerco', 'viento', 'trinchera'], azul: ['curacion', 'cerco', 'trinchera'],
+  lance: ['cerco', 'trinchera', 'acoso'], azul: ['curacion', 'cerco', 'trinchera'],
   falkner: ['viento', 'cerco'], bugsy: ['refugio', 'emboscada'], whitney: ['curacion', 'acoso'], morty: ['emboscada', 'acoso'],
   chuck: ['trinchera', 'acoso'], jasmine: ['trinchera', 'acoso'], pryce: ['mojado', 'trinchera', 'acoso'], clair: ['cerco', 'viento'],
   will: ['teletransporte', 'trinchera'], kogaj: ['refugio', 'emboscada'], brunoj: ['trinchera', 'acoso'], karen: ['emboscada', 'cerco'],
@@ -128,11 +128,12 @@ const PLAYS = {
       return true;
     },
   },
-  // El rival está en una zona avisada de la arena (roca que cae, géiser, placa, erupción, rayo): ralentizarlo o
-  // aturdirlo para que no salga a tiempo
+  // El rival está en una zona avisada de la arena (roca que cae, géiser, placa, erupción, rayo, grieta, manos, vía de
+  // la vagoneta) o en unas arenas movedizas: ralentizarlo o aturdirlo para que no salga a tiempo (o se hunda)
   cerco: {
-    fits: (b) => ['rockfall', 'geyser', 'shock', 'eruption', 'storm'].some(k => b.arena.m[k]),
-    when: c => !c.view.hidden && c.b.arena.danger.some(d => d.t > 0.25 && Math.hypot(c.view.x - d.x, c.view.y - d.y) < d.r + 6),
+    fits: (b) => ['rockfall', 'geyser', 'shock', 'eruption', 'storm', 'fissure', 'hands', 'carts'].some(k => b.arena.m[k]) || !!b.arena.sand,
+    when: c => !c.view.hidden && (c.b.arena.danger.some(d => d.t > 0.25 && Math.hypot(c.view.x - d.x, c.view.y - d.y) < d.r + 6)
+      || (c.b.arena.sand || []).some(z => Math.hypot(c.view.x - z.x, c.view.y - z.y) < z.r)),
     act: c => attack(c, m => m.stun || m.slow, m => (m.stun ? 2 : 1) + m.dmg / 100) || attack(c, m => m.kind !== 'dash'),
   },
   // Pelear desde el terreno que a su tipo no le afecta y al rival sí (que tenga que entrar para pegarle), cuando el

diff --git a/tests/e2e/alto-mando-mecanicas.e2e.js b/tests/e2e/alto-mando-mecanicas.e2e.js
@@ -1,0 +1,24 @@
+// El Alto Mando con las mecánicas nuevas de los gimnasios: en un combate en cada sala (Práctica), la etiqueta de la
+// arena dice lo que tiene ahora (manos, imanes, arenas movedizas, esporas, grietas de lava y vagonetas), y en la del
+// Campeón la vagoneta avisa en pantalla antes de cruzar
+module.exports = async ({ page, player, ok }) => {
+  const me = await player({ user: 'altomando' });
+  me.client.send({ t: 'dev', dex: 6, level: 50, region: 'kanto' }); await me.client.wait(m => m.t === 'profile');
+  await page.loginAs(me.token);
+  await page.mode('Práctica');
+  const salas = [['Cripta Espectral', /salen manos del suelo/], ['Sala de las Sombras', /imanes que curvan/], ['Dojo de Roca', /arenas movedizas/],
+    ['Dojo Ninja', /nubes de esporas/], ['Guarida del Dragón', /suelo que se agrieta/], ['Sala del Campeón', /vagonetas que cruzan/]];
+  for (const [i, [sala, dice]] of salas.entries()) {
+    if (!(await page.see(/Empezar \(/, { ms: 0 }))) await page.click('.pool-card');   // (el equipo, si no queda elegido)
+    await page.tap(sala, { in: '.practice-arenas' });
+    await page.tap(/^Empezar/);
+    ok(await page.see(dice, { in: '.arena-tag', ms: 15000 }), `en combate en «${sala}», la etiqueta de la arena dice que tiene ${dice.source}`);
+    if (i === salas.length - 1) {
+      ok(await page.see('¡Vagoneta! Sal de la vía que se ilumina', { ms: 20000 }), 'en la Sala del Campeón, la vagoneta avisa en pantalla antes de cruzar');
+      break;
+    }
+    await page.key('Escape');
+    await page.tap('Rendirse', { in: '.ui-confirm-box' });
+    await page.tap('Volver');   // (vuelve a Práctica)
+  }
+};

diff --git a/public/changelog.js b/public/changelog.js
@@ -4,6 +4,13 @@
 (function (root) {
   const CHANGELOG = [
     {
+      v: '0.46.1', date: '2026-11-08', title: 'Alto Mando renovado',
+      items: [
+        ['cambio', 'El Alto Mando estrena mecánicas: manos que atrapan con Agatha, imanes con Karen, arenas movedizas en vez de rocas con Bruno y esporas en el Dojo Ninja.'],
+        ['cambio', 'Lance cambia las ráfagas por un suelo que se agrieta en lava, y en la Sala del Campeón los terremotos dejan paso a vagonetas: sal de la vía que se ilumina.'],
+      ],
+    },
+    {
       v: '0.46.0', date: '2026-11-07', title: 'Más gimnasios con gracia',
       items: [
         ['nuevo', 'Más mecánicas: manos que atrapan en la Torre fantasma, imanes que curvan los disparos en el Faro, vagonetas en la Cueva de roca y nubes de esporas en el Invernadero.'],

diff --git a/tests/mutaciones.js b/tests/mutaciones.js
@@ -374,4 +374,7 @@ module.exports = [
   { id: 'esporas-inofensivas', que: 'Las nubes de esporas del invernadero no adormecen',
     archivo: 'server/arena.js', buscar: 'if (this.spores.some(c => Math.hypot(s.x - c.x, s.y - c.y) < c.r)) s.slow = Math.max(s.slow, m.spores.slow);', poner: '',
     tests: ['tools/arena-test.js'] },
+  { id: 'campeon-sin-vagonetas', que: 'La Sala del Campeón no tiene las vagonetas que dice: el Alto Mando sigue con las mecánicas de siempre',
+    archivo: 'public/data.js', buscar: "carts: { every: 9, warn: 1.3, speed: 520, dmg: 0.08, knock: 140, rows: [4, 10] }, heal: { rate: 0.04, drain: 0.3, cd: 15 } },", poner: "heal: { rate: 0.04, drain: 0.3, cd: 15 } },",
+    tests: ['tests/e2e/alto-mando-mecanicas.e2e.js'] },
 ];
